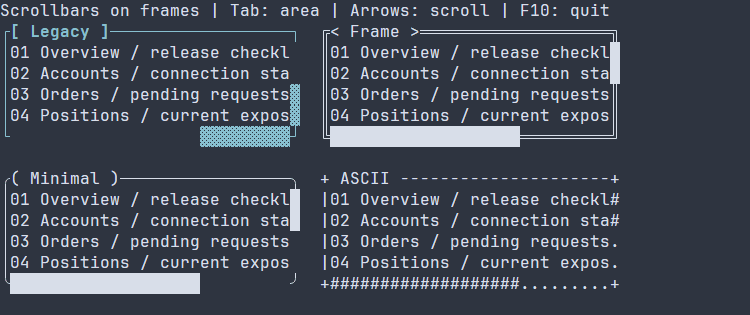
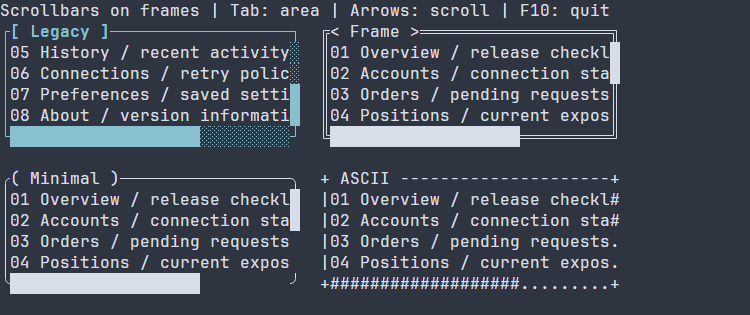
[PRTLS-280][STYLE] Keep focused scrollbar parts visible on theme surfaces

Changed region(s): [[0.0, 0.1429, 0.3987, 0.4857]]

diff --git a/tests/style_layers.cpp b/tests/style_layers.cpp
@@ -2465,3 +2465,30 @@ TEST_CASE("frame and scrollbar parts coexist with independent ranks and ordinary
   CHECK(fixture.read().scrollbar[1].thumb->bold);
   CHECK(fixture.read().frame[1].title->foreground == RgbColor{1, 2, 3});
 }
+
+TEST_CASE("theme scrollbar focus colors retain independent application overrides") {
+  Fixture fixture;
+  take(fixture.engine.enableLayers());
+  take(fixture.engine.defaults(nordTheme()));
+  const auto before = fixture.read();
+
+  REQUIRE(before.scrollbar[1].thumb);
+  CHECK(before.scrollbar[1].thumb->foreground == RgbColor{0x88, 0xc0, 0xd0});
+  CHECK(before.scrollbar[1].thumb->background == RgbColor{0x2e, 0x34, 0x40});
+  const auto application = take(parsePss("#subject:focused{scrollbar-thumb-foreground:#010203;"
+                                         "scrollbar-track-background:#040506;scrollbar-ends-bold:false;}"));
+  const auto layer = take(fixture.engine.addLayer(StyleTier::APPLICATION, "parts", application));
+  const auto changed = fixture.read();
+
+  REQUIRE(changed.scrollbar[1].track);
+  REQUIRE(changed.scrollbar[1].thumb);
+  REQUIRE(changed.scrollbar[1].ends);
+  CHECK(changed.scrollbar[1].thumb->foreground == RgbColor{1, 2, 3});
+  CHECK(changed.scrollbar[1].thumb->background == before.scrollbar[1].thumb->background);
+  CHECK(changed.scrollbar[1].track->background == RgbColor{4, 5, 6});
+  CHECK_FALSE(changed.scrollbar[1].ends->bold);
+  CHECK(changed.normal == before.normal);
+  CHECK(changed.disabled == before.disabled);
+  take(fixture.engine.removeLayer(layer));
+  CHECK(fixture.read() == before);
+}

diff --git a/include/portals/style_static.hpp b/include/portals/style_static.hpp
@@ -1005,7 +1005,13 @@ consteval auto themeFromTokens(ThemeTokens defaults, detail::Parameters<P...> ex
     rule(selector(StyleState::FOCUSED), foreground(token<"background">()), background(token<"accent">()), bold(true),
          frameLineForeground(token<"accent">()), frameLineBackground(token<"background">()), frameLineBold(true),
          frameTitleForeground(token<"accent">()), frameTitleBackground(token<"background">()), frameTitleBold(true),
-         frameEndsForeground(token<"accent">()), frameEndsBackground(token<"background">()), frameEndsBold(true)),
+         frameEndsForeground(token<"accent">()), frameEndsBackground(token<"background">()), frameEndsBold(true),
+         scrollbarTrackForeground(token<"accent">()), scrollbarTrackBackground(token<"background">()),
+         scrollbarTrackBold(true), scrollbarThumbForeground(token<"accent">()),
+         scrollbarThumbBackground(token<"background">()), scrollbarThumbBold(true),
+         scrollbarEndsForeground(token<"accent">()), scrollbarEndsBackground(token<"background">()),
+         scrollbarEndsBold(true), scrollbarCornerForeground(token<"accent">()),
+         scrollbarCornerBackground(token<"background">()), scrollbarCornerBold(true)),
     rule(selector(StyleState::DISABLED), foreground(token<"muted">()), background(token<"background">()), bold(false)),
     rule(selector(StyleState::SELECTED), foreground(token<"foreground">()), background(token<"selection">()),
          bold(true), italic(false)),

diff --git a/tests/style_static.cpp b/tests/style_static.cpp
@@ -214,6 +214,13 @@ TEST_CASE("constant standard theme reproduces existing ThemeTokens helper for al
   CHECK(initialFrame.title == expectedFrame);
   CHECK(initialFrame.ends == expectedFrame);
 
+  const auto initialScrollbar = resolveStyle(after, {"ScrollArea", "", {}}).scrollbar[1];
+
+  CHECK(initialScrollbar.track == expectedFrame);
+  CHECK(initialScrollbar.thumb == expectedFrame);
+  CHECK(initialScrollbar.ends == expectedFrame);
+  CHECK(initialScrollbar.corner == expectedFrame);
+
   Fixture fixture;
   auto live = take(sc::live(*fixture.owner, STANDARD));
   CHECK(take(live.set<"selection">(RgbColor{70, 80, 90})));
@@ -226,6 +233,13 @@ TEST_CASE("constant standard theme reproduces existing ThemeTokens helper for al
   CHECK(updatedFrame.line->background == TOKENS.background);
   CHECK(updatedFrame.title == updatedFrame.line);
   CHECK(updatedFrame.ends == updatedFrame.line);
+
+  const auto updatedScrollbar = fixture.read().scrollbar[1];
+
+  CHECK(updatedScrollbar.track == updatedFrame.line);
+  CHECK(updatedScrollbar.thumb == updatedFrame.line);
+  CHECK(updatedScrollbar.ends == updatedFrame.line);
+  CHECK(updatedScrollbar.corner == updatedFrame.line);
 }
 
 TEST_CASE("live scalar changes use existing paint layout invalidation and equal no-op") {

diff --git a/src/styles/style.cpp b/src/styles/style.cpp
@@ -296,13 +296,19 @@ StyleSheet themeFromTokens(ThemeTokens tokens) {
   };
 
   stateRule(StyleState::FOCUSED, tokens.background, tokens.accent, true);
-  // Focused frames use the theme accent without applying an action fill to their lines.
+  // Focused chrome uses accent ink on the surface instead of an action fill.
   auto &focused = sheet.rules.back().declarations;
-  const StylePaintDeclarations frame{.foreground = tokens.accent, .background = tokens.background, .bold = true};
+  const StylePaintDeclarations accentOnSurface{
+    .foreground = tokens.accent, .background = tokens.background, .bold = true};
 
-  focused.frameLine = frame;
-  focused.frameTitle = frame;
-  focused.frameEnds = frame;
+  focused.frameLine = accentOnSurface;
+  focused.frameTitle = accentOnSurface;
+  focused.frameEnds = accentOnSurface;
+  // A full-block thumb uses foreground ink; an action fill would hide it in the surface color.
+  focused.scrollbarTrack = accentOnSurface;
+  focused.scrollbarThumb = accentOnSurface;
+  focused.scrollbarEnds = accentOnSurface;
+  focused.scrollbarCorner = accentOnSurface;
 
   stateRule(StyleState::DISABLED, tokens.muted, tokens.background, false);
   stateRule(StyleState::SELECTED, tokens.foreground, tokens.selection, true);

diff --git a/tests/style.cpp b/tests/style.cpp
@@ -649,6 +649,11 @@ void adaptedPaletteVariants() {
 
     check(frame.line == frameStyle && frame.title == frameStyle && frame.ends == frameStyle,
           "focused frame parts use this palette's accent and background without action fill");
+    const auto &scrollbar = style.scrollbar[static_cast<std::size_t>(StyleState::FOCUSED) - 1];
+
+    check(scrollbar.track == frameStyle && scrollbar.thumb == frameStyle && scrollbar.ends == frameStyle &&
+            scrollbar.corner == frameStyle,
+          "focused scrollbar parts use accent glyphs on the unchanged surface");
 
     if (failures != failuresBefore) {
       std::cerr << "Palette: " << palette.name << '\n';

diff --git a/docs/ru/scroll-controls.md b/docs/ru/scroll-controls.md
@@ -28,10 +28,9 @@
 отступов layout. Обычное содержимое из восьми строк не виртуализировано. Tab
 переводит фокус на область, стрелки прокручивают её, F10 завершает приложение.
 
-Текущее ограничение: с обычными цветами частей в теме Nord блочный ползунок
-стиля `legacy`, `frame` или `minimal` при фокусе может сливаться с фоном
-содержимого, а дорожка выделяется цветом.
-Запись показывает это поведение; фокус не меняет диапазон прокрутки.
+Стандартные темы выделяют части полосы при фокусе акцентным цветом на фоне
+поверхности. Фокус не инвертирует фон и не меняет диапазон прокрутки.
+Стили приложения могут переопределять оформление каждой части независимо.
 
 ![Нативная запись терминала со сравнением стилей полос на рамке](../images/scrollbar-gallery.gif)
 [Статичный кадр PNG](../images/scrollbar-gallery.png)

diff --git a/docs/scroll-controls.md b/docs/scroll-controls.md
@@ -28,10 +28,9 @@ frame, minimal or ASCII. The frame inset leaves a 28-by-4 content viewport
 before any other layout gutters. The ordinary eight-row content is not
 virtualized. Tab focuses an area, arrow keys scroll it, and F10 quits.
 
-Current limitation: with the default Nord part colors, a focused `legacy`,
-`frame` or `minimal` full-block thumb can blend into the content background
-while the track is highlighted.
-The recording shows this behavior; focus does not change the scrolling range.
+The default themes highlight focused scrollbar parts with accent foreground
+on the surface background. Focus does not invert the background or change the
+scrolling range. Application styles can override each part independently.
 
 ![Native terminal recording comparing on-frame scrollbar skins](images/scrollbar-gallery.gif)
 [Static PNG frame](images/scrollbar-gallery.png)

diff --git a/ReleaseNotes.md b/ReleaseNotes.md
@@ -5,6 +5,12 @@ planned work is not included. An **Unreleased** heading has no publication date.
 
 ## Unreleased
 
+### Fixed
+
+- Keep focused scrollbar tracks, thumbs, decorative ends and corners in the
+  theme accent on the surface background. Block thumbs remain visible in dark
+  and light themes; application and user part overrides keep their priority.
+
 ### Documentation
 
 - Add complete declarative frame/title and on-frame scrollbar galleries with native GIF and PNG previews in English and Russian. Document the existing focused scrollbar contrast limitation in the Nord theme.
